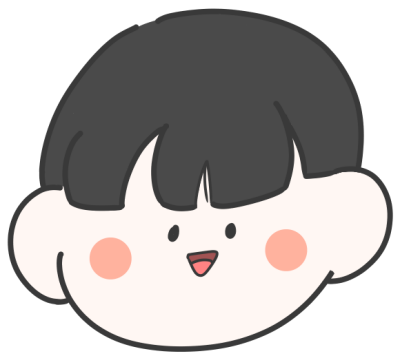
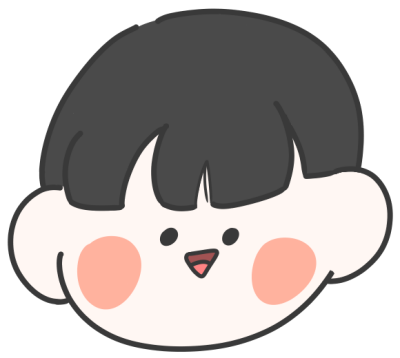
add/ notice image

diff --git a/style.scss b/style.scss
@@ -48,19 +48,23 @@ $white-color: #fff;
   position: relative;
   /* notice */
   .notice {
-    opacity: 0;
     // border: 1px solid red;
+    opacity: 0;
     position: fixed;
     z-index: 999;
     color: $sub-font-color;
-    right: 10px;
-    bottom: 10px;
+    right: 0px;
+    bottom: 0px;
     color: $main-font-color;
     font-size: 18px;
     font-family: $kr-font;
     letter-spacing: -.03em;
     font-weight: 700;
     animation: notice 2s alternate 3 ease-in-out;
+    img {
+      // border: 1px solid orange;
+      width: 400px;
+    }
   }
   /* header */
   header {

diff --git a/css/style.css b/css/style.css
@@ -52,8 +52,8 @@ li {
   position: fixed;
   z-index: 999;
   color: #bcbcbc;
-  right: 10px;
-  bottom: 10px;
+  right: 0px;
+  bottom: 0px;
   color: #1a1a1c;
   font-size: 18px;
   font-family: "SUIT-Regular";
@@ -61,6 +61,9 @@ li {
   font-weight: 700;
   -webkit-animation: notice 2s alternate 3 ease-in-out;
           animation: notice 2s alternate 3 ease-in-out;
+}
+#wrap .notice img {
+  width: 400px;
 }
 #wrap header {
   background: rgba(28, 56, 102, 0.9);

diff --git a/index.html b/index.html
@@ -43,7 +43,7 @@
   <body>
     <div id="wrap">
       <div class="notice">
-        * 해당 페이지는 반응형으로 제작되었습니다.
+        <img src="./img/sik-notice-web.png" alt="반응형으로 제작된 페이지입니다.">
       </div>
       <!-- header -->
       <header>
